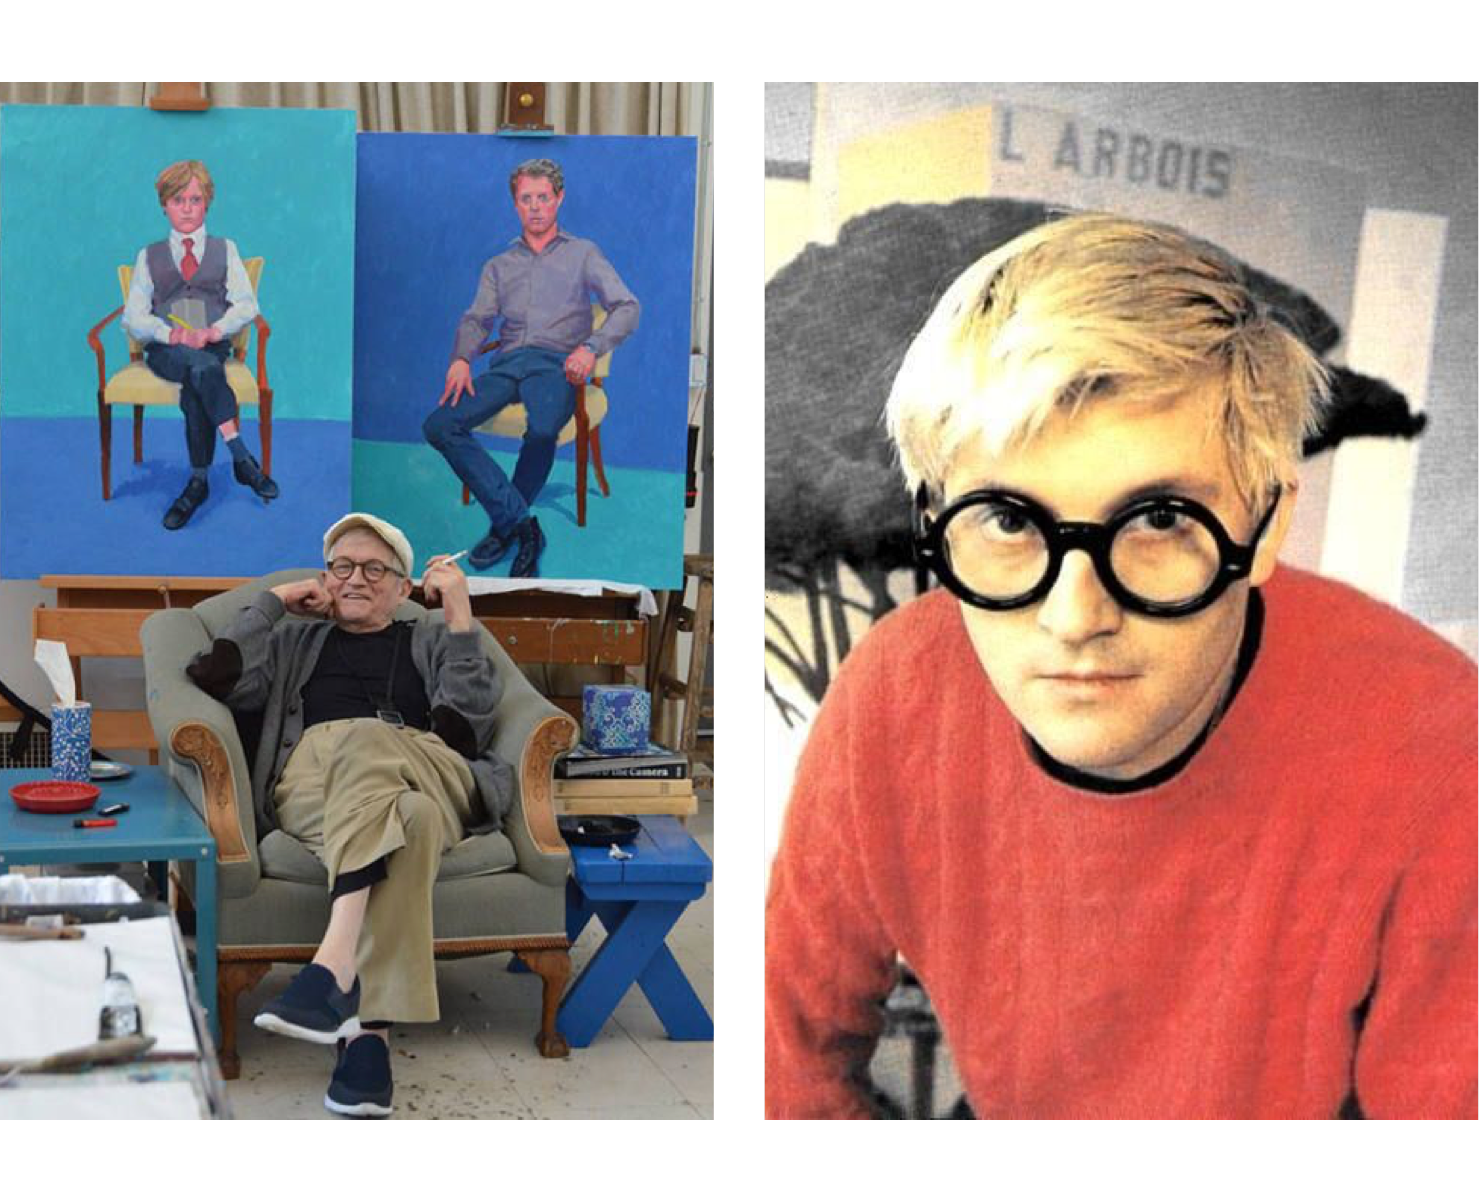
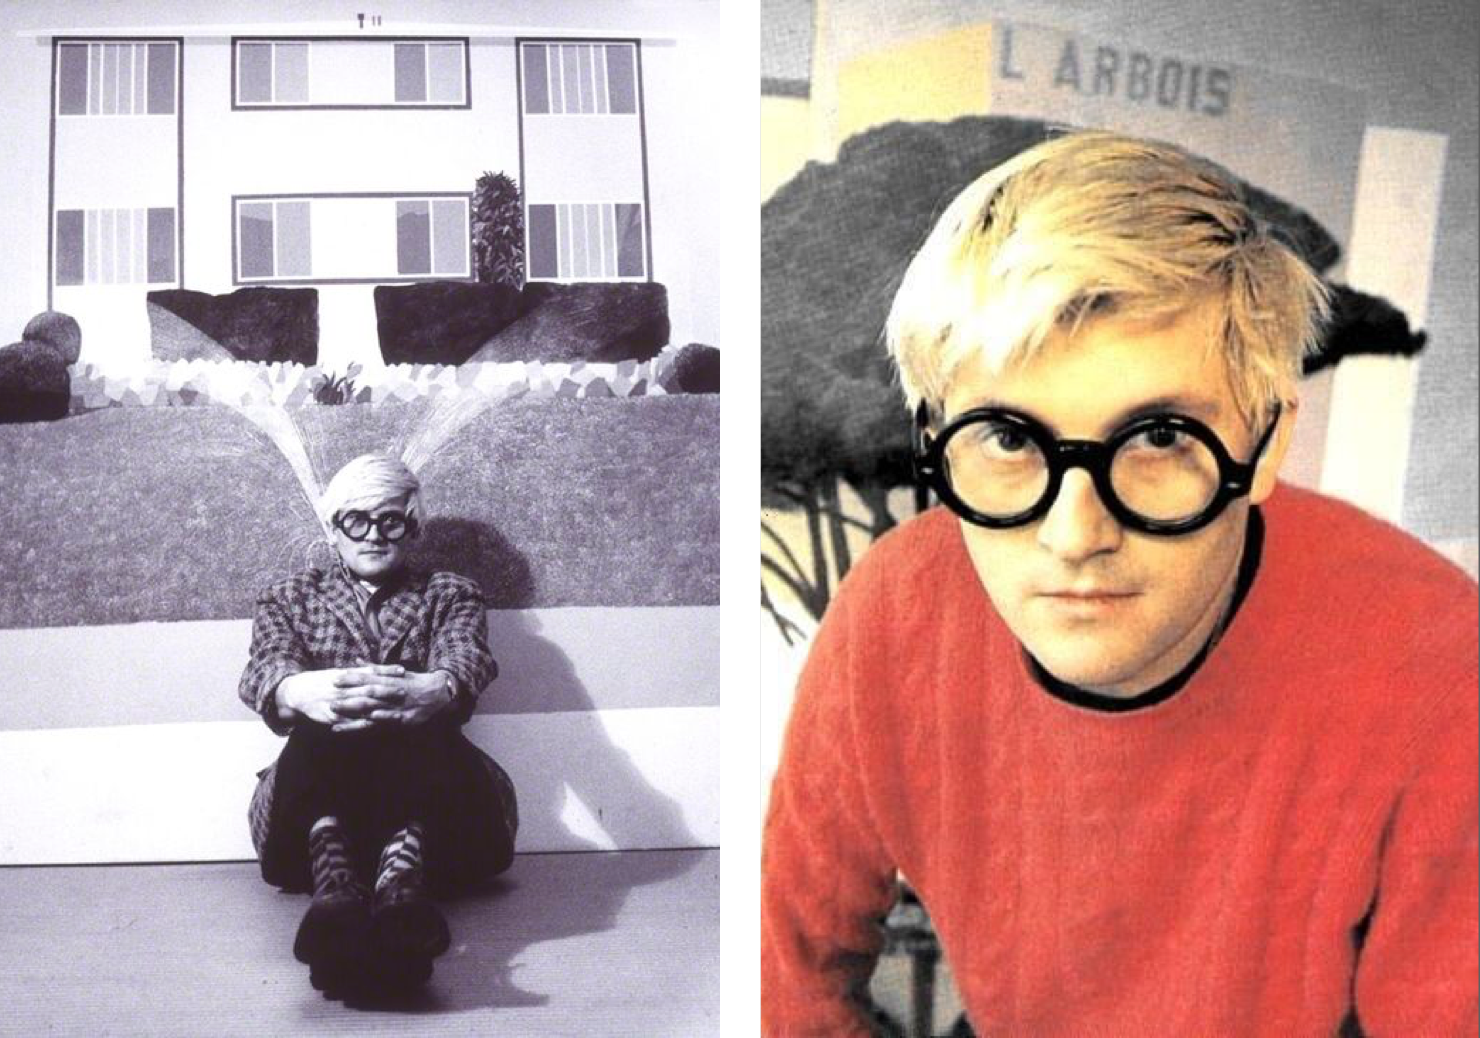
переверстала в статью

diff --git a/index.html b/index.html
@@ -6,47 +6,55 @@
   <link rel="stylesheet" href="stylesheets/style.css">
 </head>
 <body>
-  <section class="header">
+  <img class="big" src="content/1.jpg">
+  <section>
     <h1>David Hockney</h1>
     <h2>Сhristopher Isherwood <br> & Don Bachardy, 1968</h2>
-  </section>
-  <img src="content/1.jpg">
-  <section>
-    <h3>Ощущения и эмоции</h3>
-    <h4>1 уровень. Деконструкция формы</h4>
-    <p>Cтатика, диалог двух персонажей.<br>
-      Фокус на равноправии.
-      Равный фон стола до зрителя и фон после героев, симметричный формы стульев, педантично сложанные стопки книг
-      нет точного определения характеру связей персонажей, разность занимаемых поз не диктует явного определения социальных позиций.
-      Полутона в темпераментах.</p>
-  </section>
-  <video controls>
+
+    <h3>Деконструкция формы</h3>
+    <h4>Ощущения и эмоции</h4>
+    <p class="first_p"><mark>Cтатика, диалог двух персонажей.</mark> Фокус на равноправии. Равный фон стола до зрителя и фон после героев, симметричный формы стульев, педантично сложанные стопки книг.
+    Нет точного определения характеру связей персонажей, разность занимаемых поз не диктует явного определения социальных позиций.</p>
+    <p><mark>Полутона в темпераментах.</mark> Опираясь на позы и направления голов видна большая заинтересованность в коммуникации со стороны персонажа - белого пятна
+    (белая рубашка, освещение из окна) при этом он в вольготной комфортной позe, у персонажа - темного пятна (в тени) интерес
+    направлен «в мир» и поза сдержанного ожидания.</p>
+    <video controls>
     <source src="content/video.mp4" type="video/mp4">
-  </video>
-  <section>
-    <p> Опираясь на позы и направления голов видна большая заинтересованность в коммуникации со стороны персонажа - белого пятна
-      (белая рубашка, освещение из окна) при этом он в вольготной комфортной позиции, у персонажа - темного пятна (в тени) интерес
-      направлен «в мир» и поза сдержанного ожидания.
-      Интерьер. Напряжение и интрига в намеках.
-      В центре композиции соединяющим звеном двух человеко-доменант оказывается корзина фруктов с подозрительно явно направленными фаллическими формами банана между двух фруктов, дополняют эту композицию початок кукурузы.
-      Эти атрибуты второстепенны и ненавязчивы, но сам факт их неуместного присутствия в изысканом строгом интерьере 60-x нельзя назвать незначительным.
-      у одной стопки книг, принадлежащая персонажу в тени блок цветной, что редкое явление, и она больше по размеру. другие принадлежащие к персонажу в свете окна дефолтные. белые носки и белая рубашка все же намекают на некую элитарность по отношению к персонажу в часаx. <br>
-    </p>
+    </video>
+    <p><mark>Интерьер. Напряжение и интрига.</mark> В центре композиции соединяющим звеном двух человеко-доменант оказывается корзина фруктов с подозрительно явно направленными фаллическими формами банана, дополняют эту композицию початок кукурузы.
+    Эти атрибуты второстепенны и ненавязчивы, но факт их неуместного присутствия в строгом интерьере 60-x нельзя назвать незначительным.</p>
+    <h3>Деконструкция содержания</h3>
+    <h4>Поиск языка, ключей к смыслу, контекста</h4>
+    <p class="first_p"> Работа Сhristopher Isherwood & Don Bachardy относится к «Калифорнийскому периоду», когда Хокни называют английским Энди Уорхолом.</p>
+    <img src="content/2.png">
+    <p> Хокни сочетает «театральность» минимализма и плоскостность формалистской абстракции... поддерживает идею свободы от культурного и исторического балласта, критикой мифа об аристократизме.</p>
+    <p> «Что по-настоящему плоско в природе? Ничего. Поэтому изображения — это во многом абстракция».</p>
+    <p>Впервые в западном искусстве были открыто показаны однополые пары. Написаны просто, с достоинством, «matter-of-fact». Хокни изобразил скрытую запретную любовь как нечто обыденное и простое.</p>
+    <h3>Деконструкция образа</h3>
+    <h4>Крис и Дон. Первая открытая гомосексуальная пара Голливуда.</h4>
+    <p class="first_p">Героями картины являются друзья Хокни, однополая пара: англо-американский писатель Кристофер Ишервуд и художник-портретист Дон Бакарди.</p>
+    <img src="content/3.png">
+    <p>В 48 лет Ишервуд встречает 18-летнего художника-портретиста Дона Бакарди и влюбляетсяя в него. Хотя общественность была шокирована значительной разницей в возрасте, их отношения оказались на редкость стабильными и долговременными: они прожили вместе 33 года, вплоть до самой смерти писателя.</p>
+    <div class="main">
+      <div>
+        <img src="content/Block1.png">
+        <div class="text-block">
+          <h5>Christopher Isherwood</h5>
+          <p class="card">Англо-американский писатель. Автор таких произведений как «Прощай, Берлин», на основе которого был снят фильм «Кабаре», «Одинокий мужчина», экранизированный Томом Фордом в 2009 и мемуаров «Кристофер и ему подобные».</p>
+        </div>
+      </div>
+      <div>
+        <img src="content/Block2.png">
+        <div class="text-block">
+          <h5>Don Bachardy</h5>
+          <p class="card">Американский художник-портретист. Его работы находятся в постоянной коллекции Метрополитен-музея в Нью-Йорке. Одной из самых известных работ художника является официальный портрет губернатора Калифорнии Джерри Брауна.</p>
+        </div>
+      </div>
+    </div>
+    <p>В 1970-х годах писатель превратился в видного международного борца за признание прав сексуального меньшинства, одним из первых открыто заявив о своей гомосексуальности.</p>
+    <img src="content/4.png">
+    <p>В 2007 году был снят документальный фильм «Крис и Дон. История любви».</p>
+    <p>Фильм получил хорошие отзывы критиков и совпал с решением Верховного суда штата Калифорния об отмене запрета на однополые браки.</p>
   </section>
-  <section>
-    <h3>Поиск языка, ключей к смыслу, контекста</h3>
-    <h4>2 уровень. Деконструкция содержания</h3>
-    <p> «Калифорнийский период», когда Хокни называют английским Энди Уорхолом. Хокни сочетает «театральность» минимализма и плоскостность формалистской абстракции... поддерживает идею свободы от культурного и исторического балласта, критикой мифа об аристократизме.
-    «Что по-настоящему плоско в природе? Ничего. Поэтому изображения — это во многом абстракция».
-    </p>
-  </section>
-  <img class="small" src="content/2.png">
-  <section>
-    <h3>Крис и Дон. Первая открытая гомосексуальная пара Голливуда.</h3>
-    <p>Впервые в западном искусстве были открыто показаны однополые пары. Написаны просто, с достоинством, «matter-of-fact». Он изобразил скрытую запретную любовь как нечто обыденное и простое.</p>
-  </section>
-  <img class="small" src="content/3.png">
-  <img class="small" src="content/4.png">
-  <img class="small" src="content/5.png">
 </body>
 </html>

diff --git a/stylesheets/layout.css b/stylesheets/layout.css
@@ -1,8 +1,7 @@
 body {
 	margin: 66px 0;
 
-	color: #111111;
-	/* color: #2B2B2B; */
+	font-family: "SF UI Display";
 
   -webkit-font-smoothing: antialiased;
   -moz-osx-font-smoothing: grayscale;
@@ -17,15 +16,19 @@ section {
   padding-left: 20px;
 }
 
-img,video  {
-  display: block;
+.big {
+	position: absolute;
+	top: 260px;
+	left: calc(50vw - 500px);
+
+  display: flex;
 
   width: 1000px;
   height: auto;
-  margin: 60px auto;
+  margin: 48px auto;
 }
 
-.small {
+img,video{
   display: block;
 
   width: 740px;
@@ -41,49 +44,95 @@ h1 {
   font-size: 86px;
 }
 h2 {
-	margin-top: 40px;
+	margin-top: 18px;
+	margin-bottom: 780px;
 
 	text-align: center;
   letter-spacing: -1.3px;
 
   font-family: "GothamProMed";
   font-size: 42px;
+	line-height: 52px;
 }
 
-/* h3 {
-	text-align: center;
+h3 {
+	margin-top: 80px;
+	margin-bottom: 12px;
 
-	font-size: 32px;
-  font-weight: bold;
-	line-height: 48px;
+	letter-spacing: -0.5px;
+	text-transform: uppercase;
+
+	color: #3573E2;
+
+	font-family: "SF UI Text Semibold";
+	font-size: 16px;
 }
 
 h4 {
-	margin-left: 20px;
-
-	font-size: 22px;
-  font-weight: bold;
-	line-height: 40px;
-} */
-
-h3 {
-	margin-bottom: 12px;
-
 	text-align: left;
-	letter-spacing: -1.77px;
+  letter-spacing: 1px;
 
-	font-family: "SF UI Display";
-	font-size: 49px;
+	font-size: 43px;
   font-weight: bold;
-	line-height: 60px;
+	line-height: 1.08;
+}
+
+.first_p {
+	margin-top: 24px;
 }
 
 p {
+	margin-top: 29px;
+
 	text-align: left;
 	letter-spacing: 0px;
 
-	font-family: "SF UI Text";
 	font-size: 20px;
-  font-weight: normal;
-	line-height: 1.4;
+  font-weight: 400;
+	line-height: 1.7;
+}
+
+mark {
+	background-color: inherit;
+
+	font-weight: bolder;
+}
+
+.main {
+display: flex;
+
+width: auto;
+height: auto;
+margin: 60px auto;
+
+}
+
+div img {
+width: 300px;
+height: 91px;
+margin: 0 0;
+}
+
+.text-block {
+	width: 333px;
+	margin: 12px 0 0 26px;
+}
+
+div:first-child {
+ margin-right: 40px;
+}
+
+h5 {
+	margin: 16px 0 12px 0;
+
+	text-align: left;
+
+	font-size: 26px;
+  font-weight: bold;
+}
+
+.card {
+	margin: 0;
+
+	font-size: 18px;
 }

diff --git a/stylesheets/fonts.css b/stylesheets/fonts.css
@@ -9,35 +9,48 @@
   font-family: "SF UI Text";
   font-weight: normal;
 
-  src: url("../fonts/SF UI Text/SF UI Text Regular.ttf") format("ttf")
+  src: url("../fonts/SF UI Text/SF UI Text Regular.otf") format("opentype")
+}
+
+@font-face {
+  font-family: "SF UI Text";
+  font-weight: lighter;
+
+  src: url("../fonts/SF UI Text/SF UI Text Light.otf") format("opentype")
+}
+
+@font-face {
+  font-family: "SF UI Text Semibold";
+
+  src: url("../fonts/SF UI Text/SF UI Text Semibold.otf") format("opentype")
 }
 
 @font-face {
   font-family: "GothamProBlack";
 
-  src: url("content/GothaPro/GothaProBlack.otf") format("opentype");
+  src: url("../fonts/GothaPro/GothaProBlack.otf") format("opentype");
 }
 
 @font-face {
   font-family: "GothamProBold";
 
-  src: url("content/GothaPro/GothaProBold.otf") format("opentype");
+  src: url("../fonts/GothaPro/GothaProBold.otf") format("opentype");
 }
 
 @font-face {
   font-family: "GothamProLig";
 
-  src: url("content/GothaPro/GothaProLig.otf") format("opentype");
+  src: url("../fonts/GothaPro/GothaProLig.otf") format("opentype");
 }
 
 @font-face {
   font-family: "GothamProMed";
 
-  src: url("content/GothaPro/GothaProMed.otf") format("opentype");
+  src: url("../fonts/GothaPro/GothaProMed.otf") format("opentype");
 }
 
 @font-face {
   font-family: "GothamProReg";
 
-  src: url("content/GothaPro/GothaProReg.otf") format("opentype");
+  src: url("../fonts/GothaPro/GothaProReg.otf") format("opentype");
 }
